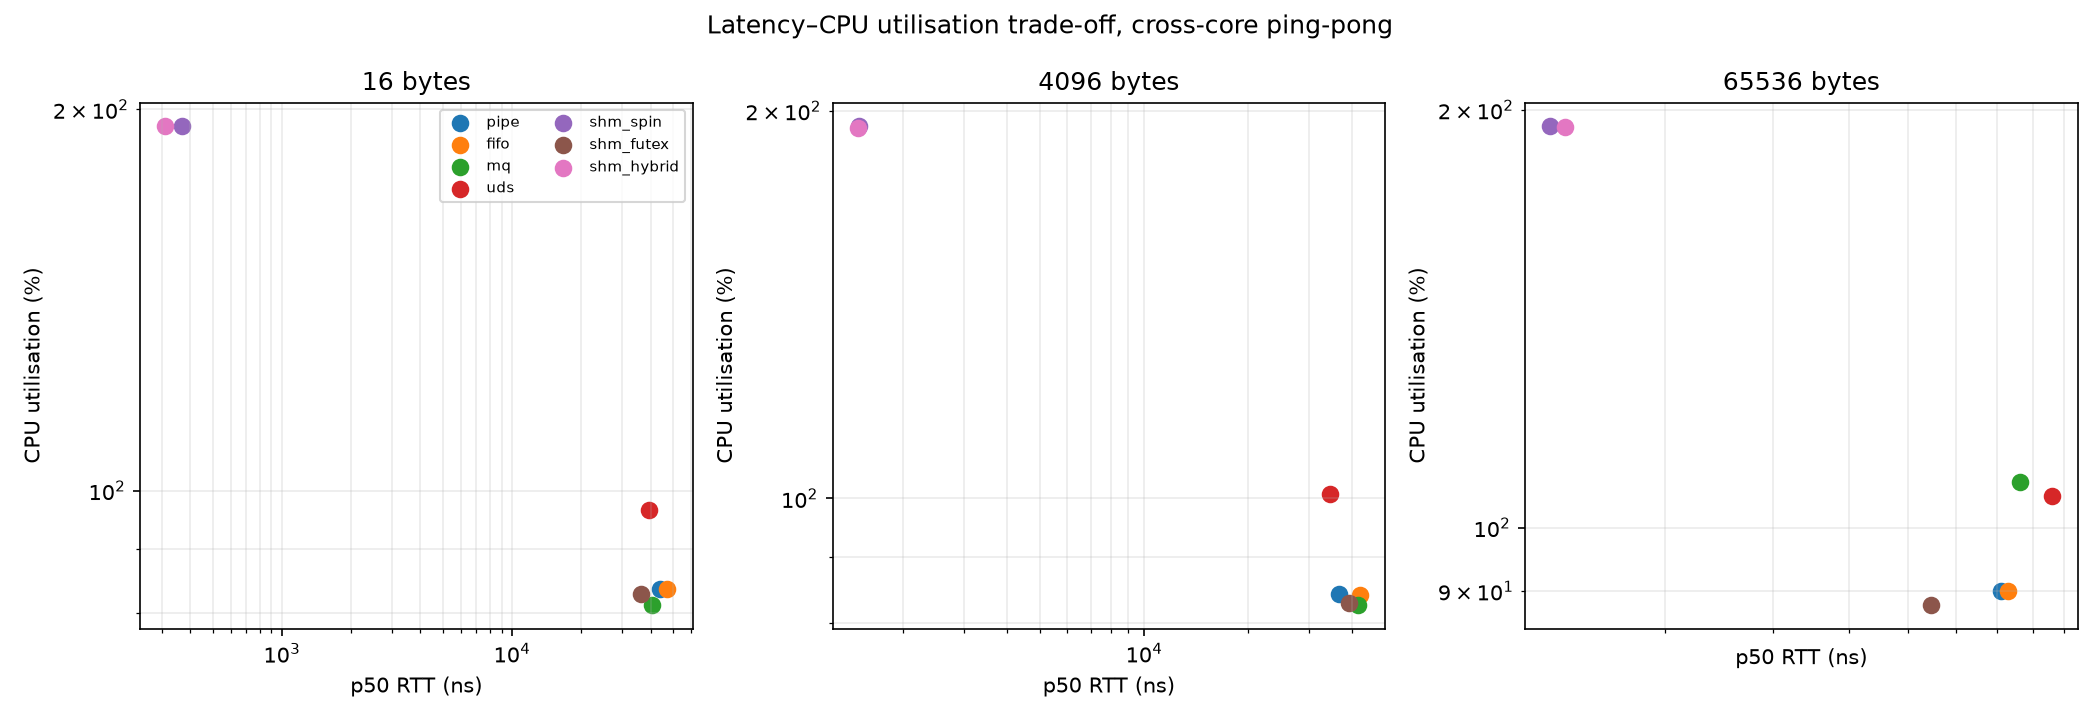
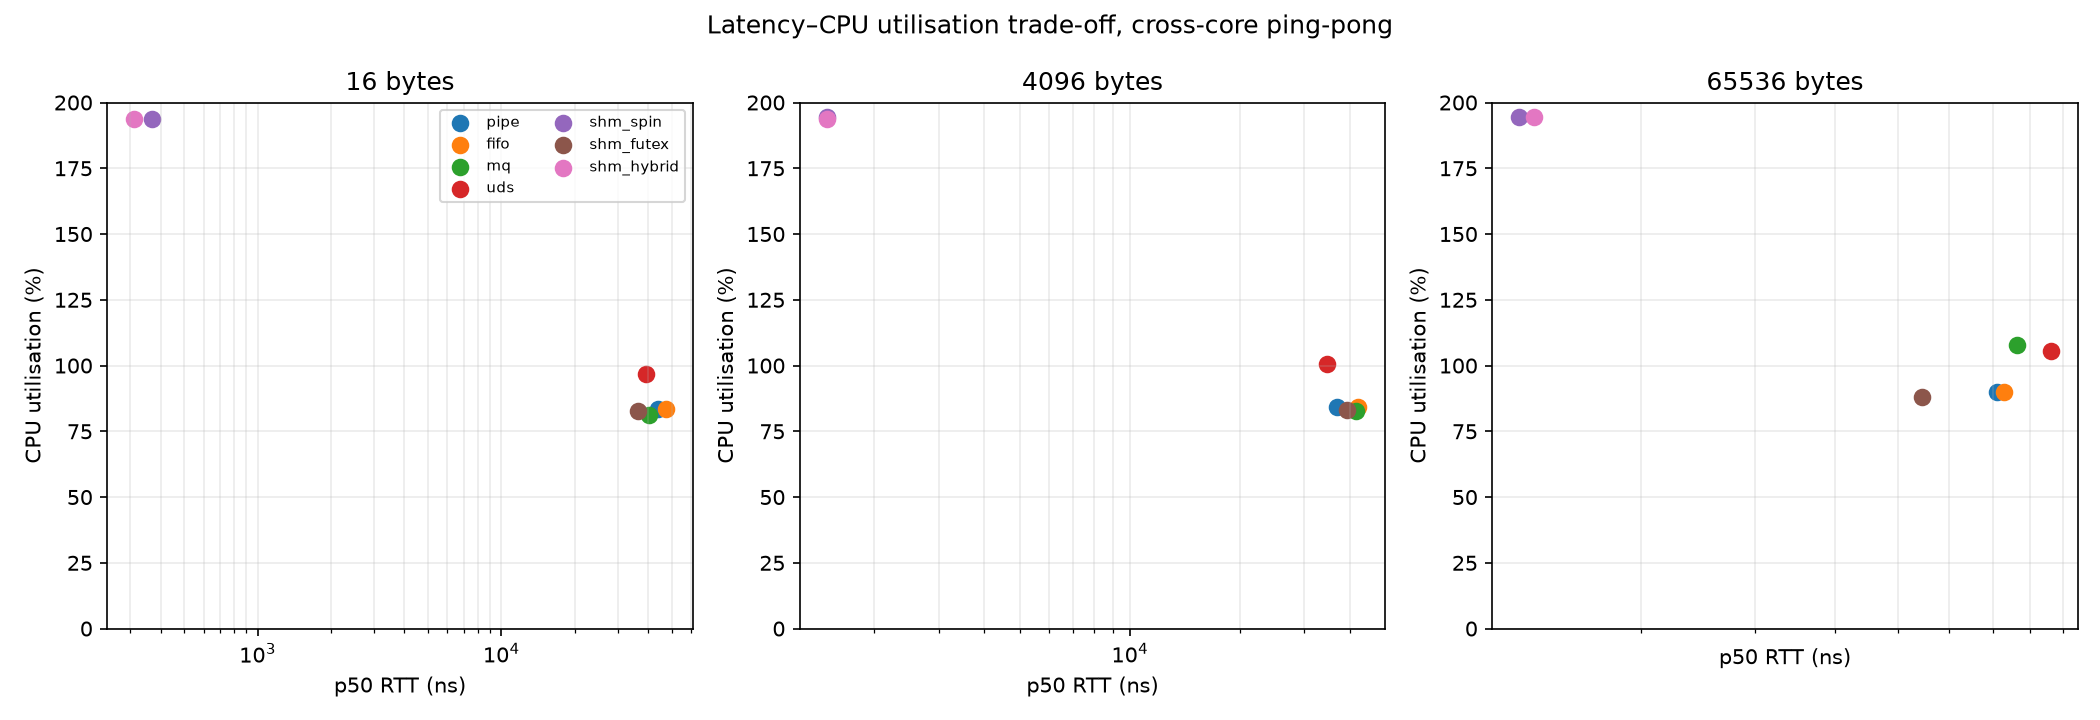
docs: finalize analysis guidance and review bundle

diff --git a/analysis/recommend.py b/analysis/recommend.py
@@ -20,6 +20,15 @@ def load(path: str) -> pd.DataFrame:
     return data[data["status"].astype(str).str.strip() == "ok"].copy()
 
 
+def aggregate(data: pd.DataFrame) -> pd.DataFrame:
+    data = data.copy()
+    data["cpu_ns_per_msg"] = (
+        (data["cpu_user_s"] + data["cpu_sys_s"]) * 1e9 / data["iters"]
+    )
+    keys = ["mech", "mode", "pin", "size_bytes"]
+    return data.groupby(keys, as_index=False).median(numeric_only=True)
+
+
 def interpolate(data: pd.DataFrame, size: int) -> pd.DataFrame:
     rows = []
     for mech, group in data.groupby("mech"):
@@ -38,7 +47,7 @@ def interpolate(data: pd.DataFrame, size: int) -> pd.DataFrame:
             math.log(upper["size_bytes"]) - math.log(lower["size_bytes"]))
         row = lower.copy()
         row["size_bytes"] = size
-        for column in ("p50_ns", "p99_ns", "mb_per_s", "cpu_user_s", "ctx_per_msg"):
+        for column in ("p50_ns", "p99_ns", "mb_per_s", "cpu_ns_per_msg", "ctx_per_msg"):
             if column in row:
                 row[column] = math.exp(math.log(max(lower[column], 1e-12)) +
                                        weight * (math.log(max(upper[column], 1e-12)) -
@@ -57,17 +66,19 @@ def main() -> int:
     parser.add_argument("--max-p99-us", type=float)
     parser.add_argument("--pin", choices=["cross", "same"], default="cross")
     parser.add_argument("--top", type=int, default=3)
+    parser.add_argument("--exclude", default="")
     args = parser.parse_args()
     if args.export_rules:
         data = load(args.input)
         data = data[data["pin"] == "cross"]
+        data = aggregate(data)
         rows = []
         for size in sorted(data["size_bytes"].unique()):
             for pattern in ("pingpong", "stream"):
                 for goal in ("min_latency", "max_throughput", "min_cpu", "balanced"):
                     subset = interpolate(data[data["mode"] == pattern], int(size),)
                     metric = {"min_latency": "p50_ns", "max_throughput": "mb_per_s",
-                              "min_cpu": "cpu_user_s", "balanced": "p50_ns"}[goal]
+                              "min_cpu": "cpu_ns_per_msg", "balanced": "p50_ns"}[goal]
                     if goal == "balanced":
                         for col in ("p99_ns", "cpu_user_s", "ctx_per_msg"):
                             low, high = subset[col].min(), subset[col].max()
@@ -88,11 +99,15 @@ def main() -> int:
     data = load(args.input)
     data = data[data["mode"] == args.pattern].copy()
     data = data[data["pin"] == args.pin].copy()
+    excluded = {item.strip() for item in args.exclude.split(",") if item.strip()}
+    if excluded:
+        data = data[~data["mech"].isin(excluded)]
+    data = aggregate(data)
     data = interpolate(data, args.size)
     if args.max_p99_us is not None and "p99_ns" in data:
         data = data[data["p99_ns"] <= args.max_p99_us * 1000]
     metric = {"min_latency": "p50_ns", "max_throughput": "mb_per_s",
-              "min_cpu": "cpu_user_s", "balanced": "p50_ns"}[args.goal]
+              "min_cpu": "cpu_ns_per_msg", "balanced": "p50_ns"}[args.goal]
     if args.goal == "balanced":
         for col in ("p99_ns", "cpu_user_s", "ctx_per_msg"):
             low, high = data[col].min(), data[col].max()
@@ -104,6 +119,9 @@ def main() -> int:
     else:
         data = data.sort_values(metric, ascending=args.goal != "max_throughput")
     print("Measured-machine recommendation (WSL2 results; not a universal ranking)")
+    print("Caveat: CPU ranking is measured under back-to-back load; spin variants keep "
+          "approximately two cores busy (measured cpu_pct approximately 194%) even "
+          "at low message rates.")
     print(data.head(args.top)[["mech", "size_bytes", metric]].to_string(index=False))
     return 0
 

diff --git a/tests/test_analysis.py b/tests/test_analysis.py
@@ -79,3 +79,23 @@ def test_p99_filter(tmp_path):
     make_csv(csv_path)
     result = run_recommend(csv_path, "max_throughput", ("--max-p99-us", "0.5"))
     assert "uds" not in result.stdout
+
+
+def test_min_cpu_uses_user_and_system_cpu_per_message(tmp_path):
+    csv_path = tmp_path / "cpu.csv"
+    rows = []
+    for mech, user, system in (("pipe", 1.0, 0.0), ("uds", 0.0, 0.5)):
+        rows.append(dict(zip(CSV_COLUMNS, [
+            1, "-", mech, "pingpong", 4096, 10, 1, "cross", 1, False, "ok",
+            1, 1, 1, 2, 2, 1, 2, 1, 1, 1, 1, user, system, 1, 0, 0, 0,
+        ])))
+    pd.DataFrame(rows).to_csv(csv_path, index=False)
+    result = run_recommend(csv_path, "min_cpu")
+    assert "uds" in result.stdout
+
+
+def test_exclude_removes_mechanisms(tmp_path):
+    csv_path = tmp_path / "exclude.csv"
+    make_csv(csv_path)
+    result = run_recommend(csv_path, "min_latency", ("--exclude", "shm_futex"))
+    assert "shm_futex" not in result.stdout

diff --git a/analysis/make_report.py b/analysis/make_report.py
@@ -82,11 +82,12 @@ def main() -> int:
             point = group[group["mech"] == mech]
             if not point.empty:
                 ax.scatter(point["p50_ns"], point["cpu_pct"], s=55, label=mech)
-        ax.set_xscale("log"); ax.set_yscale("log")
+        ax.set_xscale("log"); ax.set_ylim(0, 200)
         ax.set_title(f"{size} bytes")
         ax.set_xlabel("p50 RTT (ns)")
         ax.set_ylabel("CPU utilisation (%)")
         ax.grid(True, which="both", alpha=0.25)
+        ax.tick_params(axis="x", which="both", labelbottom=True)
         ax.xaxis.set_minor_formatter(NullFormatter())
     axes[0].legend(ncol=2, fontsize=7)
     fig.suptitle("Latency–CPU utilisation trade-off, cross-core ping-pong")

diff --git a/docs/RELATED_WORK.md b/docs/RELATED_WORK.md
@@ -8,19 +8,36 @@
   comparison for pipes, UDS, TCP, and one-way shared memory. This project uses
   a common bidirectional interface, includes message queues and FIFOs, tests
   both stream and ping-pong behavior, and records tail and scheduling metrics.
-- **rustyconover/memory-passing-speed-benchmark (GitHub).** Studies a pipe versus
-  shared-memory crossover and reports a crossover around 8 MB. This project
-  measures more mechanisms and sizes, tests synchronization strategies, and
-  reports a measured crossover analysis rather than assuming that threshold.
+- **rustyconover/memory-passing-speed-benchmark (GitHub).** Studies a pipe
+  versus shared-memory comparison and reports a crossover around 8 MB. In this
+  project's measured sizes, no crossover was observed: shared memory led pipe
+  at every measured size. The workloads, ring protocol, and host differ.
 - **anttispitkanen/ipc-benchmark-testing (GitHub).** Measures IPC between
   Node.js Docker containers. This project is a native C++ Linux/WSL2 study
   focused on process-local IPC primitives and documents virtualization limits.
 - **Venkataraman et al., “Smart Pointers and Shared Memory Synchronisation for
   Efficient IPC in ROS on an Autonomous Vehicle,” arXiv:2108.07085.** The
   cited work reports shared memory as strongest overall and comparable behavior
-  below 64 KB. This project tests a different workload matrix and treats those
-  statements as context, not as a claim that the present machine proves the
-  same mechanism-level cause.
-
-The descriptions above follow the sources specified in the project brief; no
-additional sources are used here.
+  below 64 KB. This project tests a different workload matrix and treats that
+  statement as context, not as a claim that the present machine proves the same
+  mechanism-level cause.
+- **“A Dynamic Multi-Threaded Queuing Mechanism for Reducing the Inter-Process
+  Communication Latency on Multi-Core Chips” (UT Arlington thesis, eLCRQ).**
+  The brief identifies its futex-block-when-necessary queue as relevant to
+  reducing spin CPU cost. TODO(verify): obtain and check the primary thesis
+  text before making a stronger comparison.
+- **Neon database GitHub issue #3184.** Discusses busy-polling versus eventfd/
+  futex trade-offs for shared-memory queues. TODO(verify): verify the issue
+  contents and exact conclusions from the primary discussion.
+- **Linux kernel mailing-list review of the Intel uintr-ipc-bench eventfd
+  benchmark (2021).** Highlights methodology pitfalls such as shared eventfd
+  state and blocking-mode choices. TODO(verify): verify the thread and cited
+  benchmark details.
+- **Docker documentation for `--ipc`.** Documents that containers normally
+  have separate IPC namespaces and can share the host namespace with
+  `--ipc=host`. This project adds Docker targets but has not yet run the
+  comparison.
+- **NTHU CSC5031 Topic03 Team06 class report.** Compares custom
+  kernel-driver IPC with shared-memory IPC in an academic setting; this project
+  does not pursue a kernel driver. TODO(verify): obtain the report and confirm
+  the exact measurements.

diff --git a/results/recommendation_table.md b/results/recommendation_table.md
@@ -7,38 +7,38 @@
 | 16 | pingpong | min_cpu | shm_hybrid |
 | 16 | pingpong | balanced | shm_hybrid |
 | 16 | stream | min_latency | fifo |
-| 16 | stream | max_throughput | shm_spin |
-| 16 | stream | min_cpu | mq |
+| 16 | stream | max_throughput | shm_hybrid |
+| 16 | stream | min_cpu | shm_hybrid |
 | 16 | stream | balanced | fifo |
 | 256 | pingpong | min_latency | shm_hybrid |
 | 256 | pingpong | max_throughput | shm_hybrid |
 | 256 | pingpong | min_cpu | shm_hybrid |
 | 256 | pingpong | balanced | shm_hybrid |
 | 256 | stream | min_latency | fifo |
-| 256 | stream | max_throughput | shm_spin |
-| 256 | stream | min_cpu | mq |
+| 256 | stream | max_throughput | shm_hybrid |
+| 256 | stream | min_cpu | shm_hybrid |
 | 256 | stream | balanced | fifo |
 | 4096 | pingpong | min_latency | shm_hybrid |
 | 4096 | pingpong | max_throughput | shm_hybrid |
-| 4096 | pingpong | min_cpu | mq |
+| 4096 | pingpong | min_cpu | shm_hybrid |
 | 4096 | pingpong | balanced | shm_hybrid |
 | 4096 | stream | min_latency | fifo |
-| 4096 | stream | max_throughput | shm_hybrid |
-| 4096 | stream | min_cpu | pipe |
+| 4096 | stream | max_throughput | shm_spin |
+| 4096 | stream | min_cpu | shm_spin |
 | 4096 | stream | balanced | fifo |
 | 65536 | pingpong | min_latency | shm_spin |
 | 65536 | pingpong | max_throughput | shm_spin |
-| 65536 | pingpong | min_cpu | uds |
+| 65536 | pingpong | min_cpu | shm_spin |
 | 65536 | pingpong | balanced | shm_spin |
 | 65536 | stream | min_latency | fifo |
 | 65536 | stream | max_throughput | shm_spin |
-| 65536 | stream | min_cpu | mq |
+| 65536 | stream | min_cpu | shm_futex |
 | 65536 | stream | balanced | fifo |
 | 1048576 | pingpong | min_latency | shm_spin |
 | 1048576 | pingpong | max_throughput | shm_spin |
-| 1048576 | pingpong | min_cpu | mq |
+| 1048576 | pingpong | min_cpu | shm_futex |
 | 1048576 | pingpong | balanced | uds |
 | 1048576 | stream | min_latency | fifo |
-| 1048576 | stream | max_throughput | shm_hybrid |
-| 1048576 | stream | min_cpu | fifo |
+| 1048576 | stream | max_throughput | shm_spin |
+| 1048576 | stream | min_cpu | shm_futex |
 | 1048576 | stream | balanced | fifo |

diff --git a/docs/DESIGN.md b/docs/DESIGN.md
@@ -35,6 +35,15 @@ the value mismatch causes the futex call to return immediately; this is the
 key lost-wake avoidance rule. The loop always rechecks the ring predicate after
 returning.
 
+More specifically, the consumer reads the futex word, sets
+`consumer_waiting`, re-checks `head`, and only then calls `futex_wait`. The
+producer publishes `head`, bumps the futex word, and reads the waiting flag
+before deciding whether to wake. A producer wake racing with the consumer's
+registration is safe because the kernel compares the futex word with the
+consumer's previously read value: a changed value makes `FUTEX_WAIT` return
+immediately. The flag covers the notification decision, so the read/check/wait
+sequence cannot lose a wakeup.
+
 `shm_spin` only polls and calls no futex. `shm_futex` waits directly. `shm_hybrid`
 polls for the configured spin window and then falls back to the same shared
 futex protocol. The tests assert these distinctions with diagnostic counters.
@@ -45,3 +54,7 @@ Names are unlinked immediately where possible. Normal teardown and SIGKILL
 cleanup tests inspect `/dev/shm`, FIFO paths, and `/dev/mqueue`. The runner has
 a 60-second supervisor watchdog; on timeout it kills the child, interrupts the
 parent, writes a `timeout` row, and tears down the mapping.
+
+The shared-memory stress test passed 10 repeats of 1,000,000 messages for both
+`shm_futex` and `shm_hybrid`, supporting the implementation's wakeup and
+wrap-around behavior under sustained load.

diff --git a/docs/DECISIONS.md b/docs/DECISIONS.md
@@ -1,4 +1,17 @@
 # Decisions
 
-- Use one bidirectional abstraction with independent transport directions so tests exercise the same API for every mechanism.
-- Use a shared anonymous mapping for the initial ring implementation; it preserves fork sharing without requiring cleanup of persistent names.
+- Use one bidirectional channel abstraction with independent transport
+  directions so every mechanism exercises the same API.
+- Use `shm_open` + `ftruncate` + `mmap(MAP_SHARED)`, then call `shm_unlink`
+  immediately after mapping. The mapping remains valid while open, without
+  leaving persistent `/dev/shm` names.
+- Use one shared ring protocol for `shm_spin`, `shm_futex`, and `shm_hybrid`;
+  vary only the waiting policy. The hybrid spin window is 2,000 iterations.
+- Cap same-core `shm_spin` at 500 iterations and 50 warm-up messages because
+  two busy waiters otherwise monopolize one CPU and can starve each handoff.
+- Use a 100 ms timeout for each shared futex wait so the runner watchdog flag
+  is observed promptly even if no wake arrives.
+- Record diagnostic counters in the ring's poll/wait loop: spin loops,
+  futex waits, and futex wakes.
+- Keep the benchmark on the WSL2 host as the primary result environment; Docker
+  support is provided for comparison but is currently untested.

diff --git a/docs/RESULTS.md b/docs/RESULTS.md
@@ -19,10 +19,10 @@ table in `results/recommendation_table.md`, and the seven figures in
 Cross-core ping-pong at 4096 bytes, goal `min_cpu`:
 
 ```text
-mech       size_bytes  cpu_user_s
-mq         4096        0.040131
-pipe       4096        0.061885
-uds        4096        0.065497
+mech       size_bytes  cpu_ns_per_msg
+shm_hybrid 4096        5991.90 ns/message
+shm_spin   4096        6273.65 ns/message
+pipe       4096        38380.75 ns/message
 ```
 
 Cross-core ping-pong at 65536 bytes, goal `balanced`:
@@ -30,12 +30,13 @@ Cross-core ping-pong at 65536 bytes, goal `balanced`:
 ```text
 mech       size_bytes  p50_ns
 shm_spin   65536       15065.5
-mq         65536       62726.0
-pipe       65536       67471.0
+pipe       65536       71027.5
+fifo       65536       72784.0
 ```
 
 The balanced score uses p99, CPU/msg, and context switches; the displayed p50
-is a readable ranking column, not the complete score.
+is a readable ranking column, not the complete score. Recommendations use the
+existing measured CSV and are not benchmark reruns.
 
 The generated summary reports every quoted latency and CPU median with its
 five-repetition min-max range. For example, at 16 bytes `shm_hybrid` is

diff --git a/README.md b/README.md
@@ -41,7 +41,7 @@ make venv
 make check
 make bench-quick
 make report
-python3 analysis/recommend.py --size 4096 --pattern pingpong --goal min_cpu
+make recommend ARGS="--size 4096 --pattern pingpong --goal min_cpu"
 ```
 
 `make bench-full` creates a fresh `results/raw.csv`, runs the 350-row cross-core
@@ -50,14 +50,16 @@ existing full CSV unless the underlying script is invoked with `--resume`.
 To add only the secondary matrix to an existing primary run, use
 `make bench-secondary`.
 
-## Docker
+## Docker (untested)
 
 ```sh
 make docker-build
 make docker-quick
 ```
 
-The Docker image provides the compiler and Python analysis environment. IPC
+The Docker image is intended to provide the compiler and Python analysis
+environment, but these targets are untested in the current WSL2 environment.
+IPC
 results from a container are not directly comparable with the WSL2 run.
 
 ## Repository layout

diff --git a/docs/PRESENTATION_OUTLINE.md b/docs/PRESENTATION_OUTLINE.md
@@ -17,5 +17,9 @@
    explicitly reported; hybrid retains the default workload.
 9. **Recommendations** — Show the two measured recommender examples and
    emphasize that they are machine-specific heuristics.
-10. **Limitations and future work** — Bare-metal replication, more hosts,
-    more repetitions, and power measurements.
+10. **Live demo** — Run `make report` and `make recommend ARGS="--size 4096
+    --pattern pingpong --goal min_cpu"` against the committed dataset, then
+    open the trade-off figure and explain the selected mechanism.
+11. **Limitations and next steps** — Bare-metal replication, more hosts, more
+    repetitions, and power measurements. Add a rate-paced test to measure idle
+    spin cost rather than only back-to-back saturation cost.
